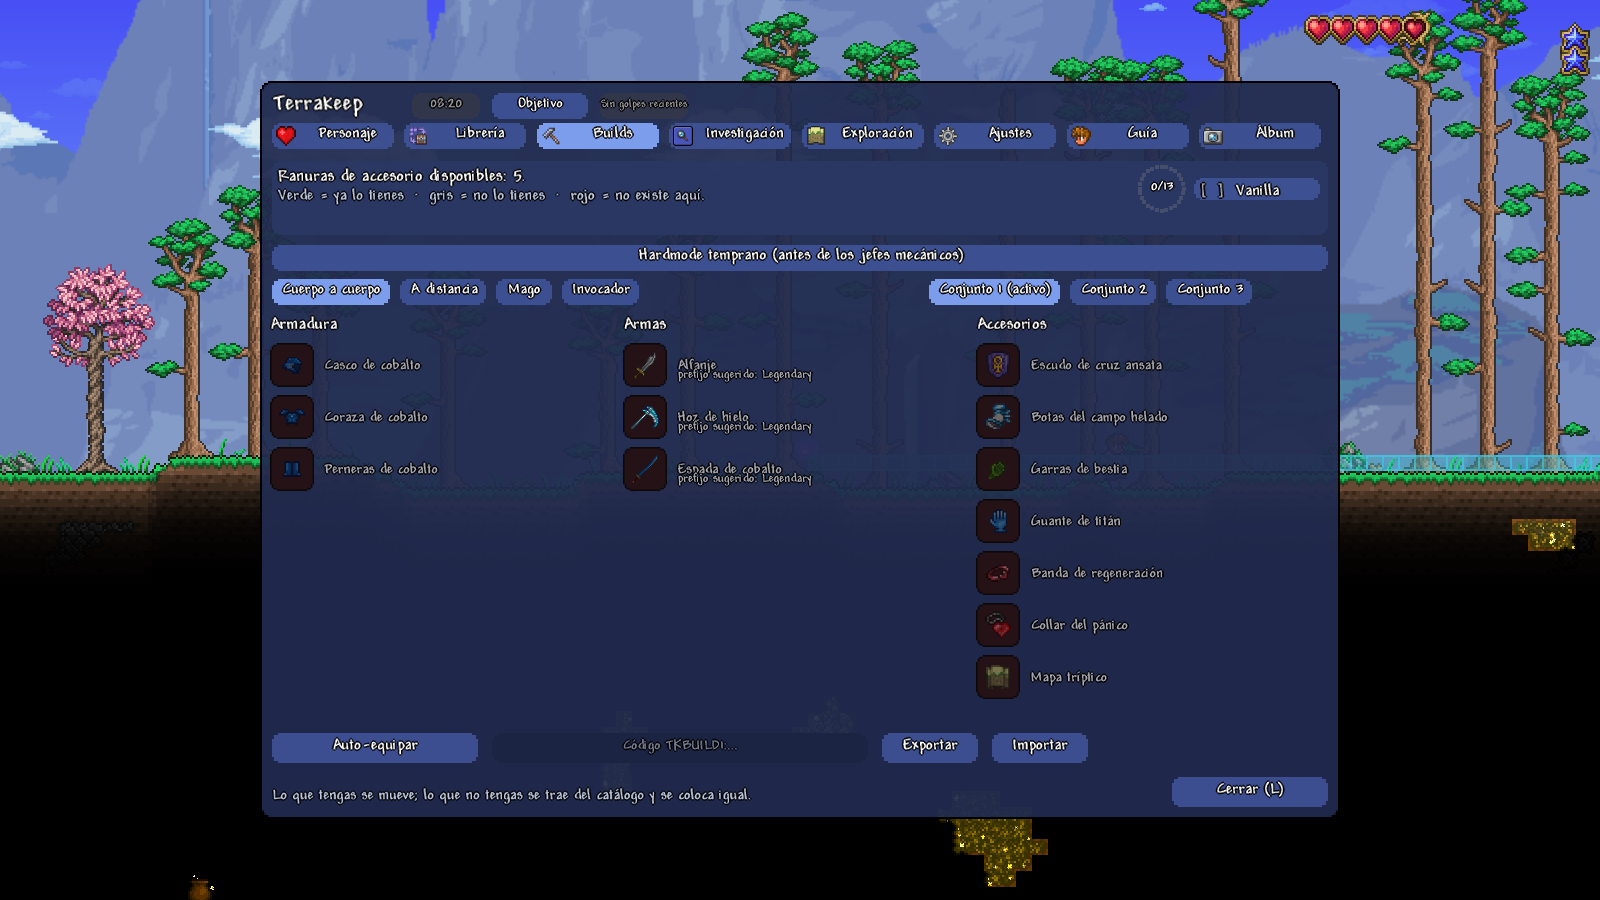
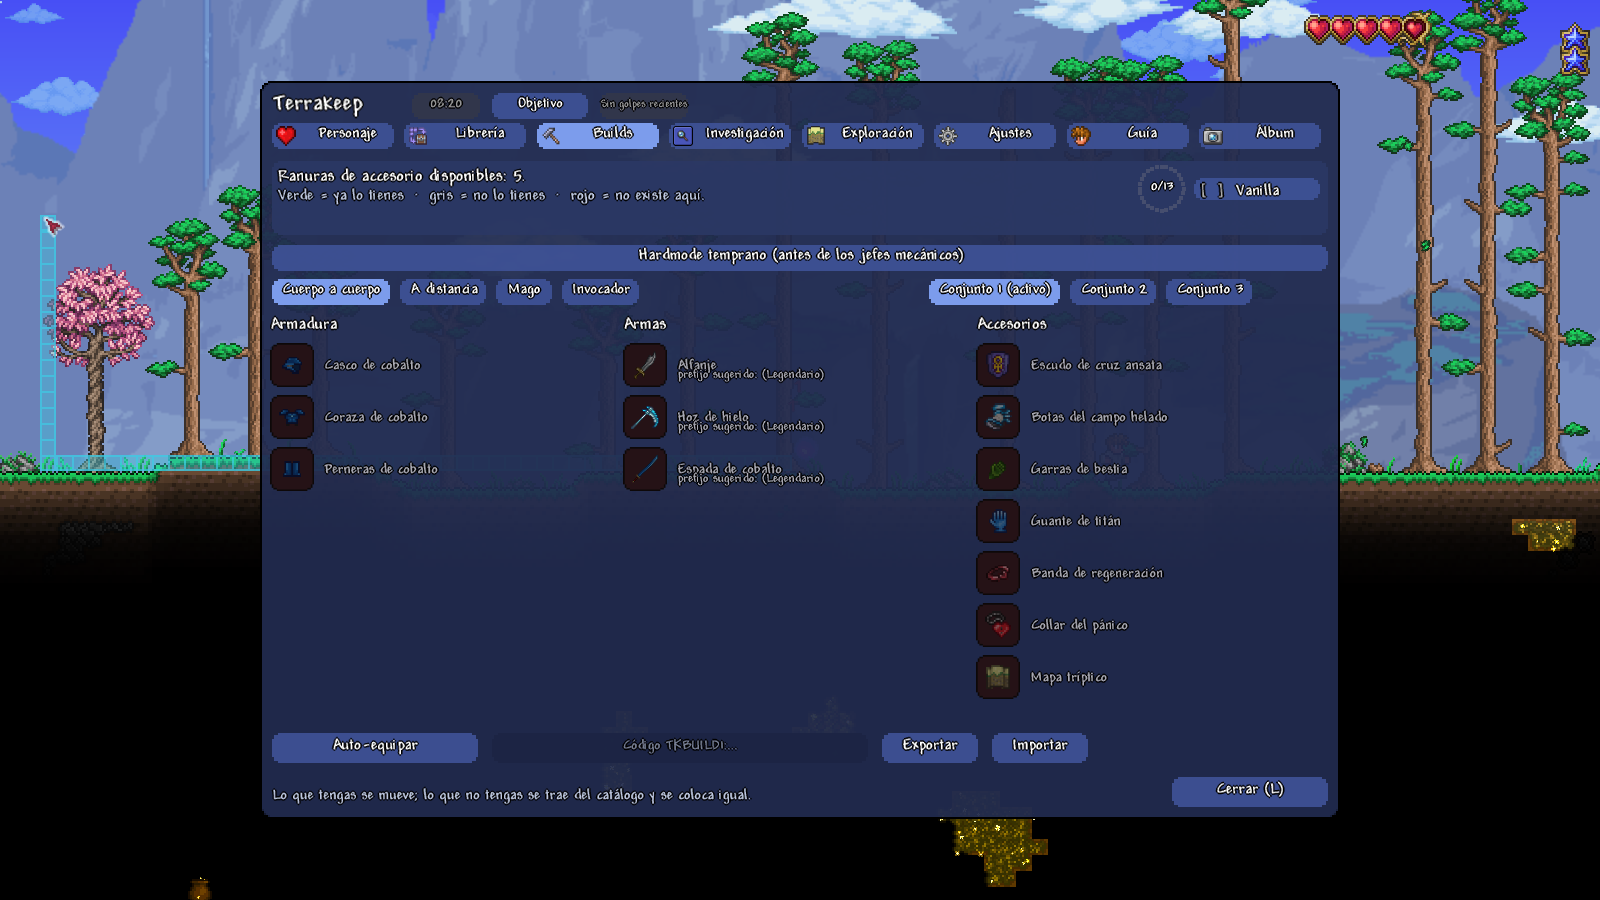
v0.6.2: parche de prefijo de Builds en ingles y legibilidad de Zoom
Novedades (README):
- Prefijo sugerido de Builds, ya en español (Lang.prefix oficial).
- Texto "Zoom" de Exploracion, mas legible en ventanas pequeñas.

Captura 03-builds.png del README regenerada (verificar-espaciado.ps1
-Calamity, 1600x900 es): ya enseña "prefijo sugerido: (Legendario)" en
vez de "Legendary".

Claude-Session: https://claude.ai/code/session_01K7SsmyJLJN7mL9bZmtPKMP

diff --git a/README.md b/README.md
@@ -103,6 +103,22 @@ tecnología externa al juego.
 
 ## Novedades
 
+### 0.6.2 (29-sep-2026)
+
+- **Prefijo sugerido de Builds, ya en español**: en la pestaña Builds, el pie de cada arma
+  recomendada enseñaba el prefijo sugerido en inglés a pelo ("prefijo sugerido: Legendary"),
+  incluso con el mod entero en español. Ahora sale con el nombre oficial que usa el propio
+  Terraria en el idioma activo (`Lang.prefix`, la misma fuente que ya usaban el editor de
+  prefijos de la Librería y el auto-equipar) - "prefijo sugerido: (Legendario)" en español,
+  "suggested prefix: Legendary" en inglés.
+- **Texto "Zoom" de Exploración, más legible en ventanas pequeñas**: en el caso más apretado
+  (ventana pequeña con la interfaz del sistema ampliada), el renglón de zoom del minimapa podía
+  quedar más pequeño de lo habitual para evitar solaparse con el aviso de arriba. Ahora el
+  bloque de texto solo reserva sitio para "bajo el ratón" cuando de verdad tiene algo que
+  enseñar (la mayoría de fotogramas no lo tiene), así que el resto de renglones - "Zoom"
+  incluido - necesita comprimirse mucho menos.
+- Versión del mod: `0.6.1` → `0.6.2`.
+
 ### 0.6.1 (29-sep-2026)
 
 - **Tildes restauradas en la Guía**: el aviso "Tienes Calamity instalado" y casi todo el texto de
